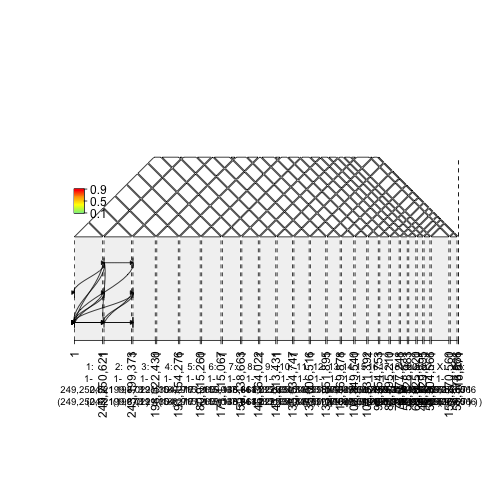
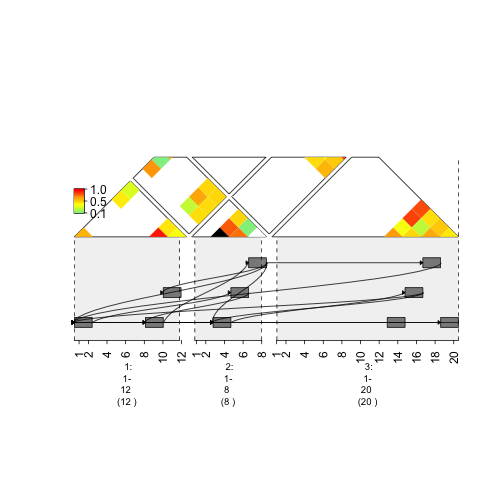
edit vignette

Changed region(s): [[0.119, 0.2976, 0.9524, 0.8333], [0.1786, 0.3571, 0.2083, 0.3869]]

diff --git a/rtdocs/vignetteHeatGraph/vignetteHeatGraph.rst b/rtdocs/vignetteHeatGraph/vignetteHeatGraph.rst
@@ -123,7 +123,7 @@ Vignette On Creating Heat maps and Graphs
 .. sourcecode:: r
     
 
-    plot(c(gTrack(gr , edges = graph, stack.gap = 5) , gTrack(gr , mdata = heatMap , stack.gap = 5)) , gr.sub(si , 'chr', ''))
+    plot(c(gTrack(gr , edges = graph, stack.gap = 5) , gTrack(gr , mdata = heatMap , stack.gap = 5)))
 
 .. figure:: figure/plot-HeatMap&Graph-1.png
     :alt: plot of chunk plot-HeatMap&Graph
